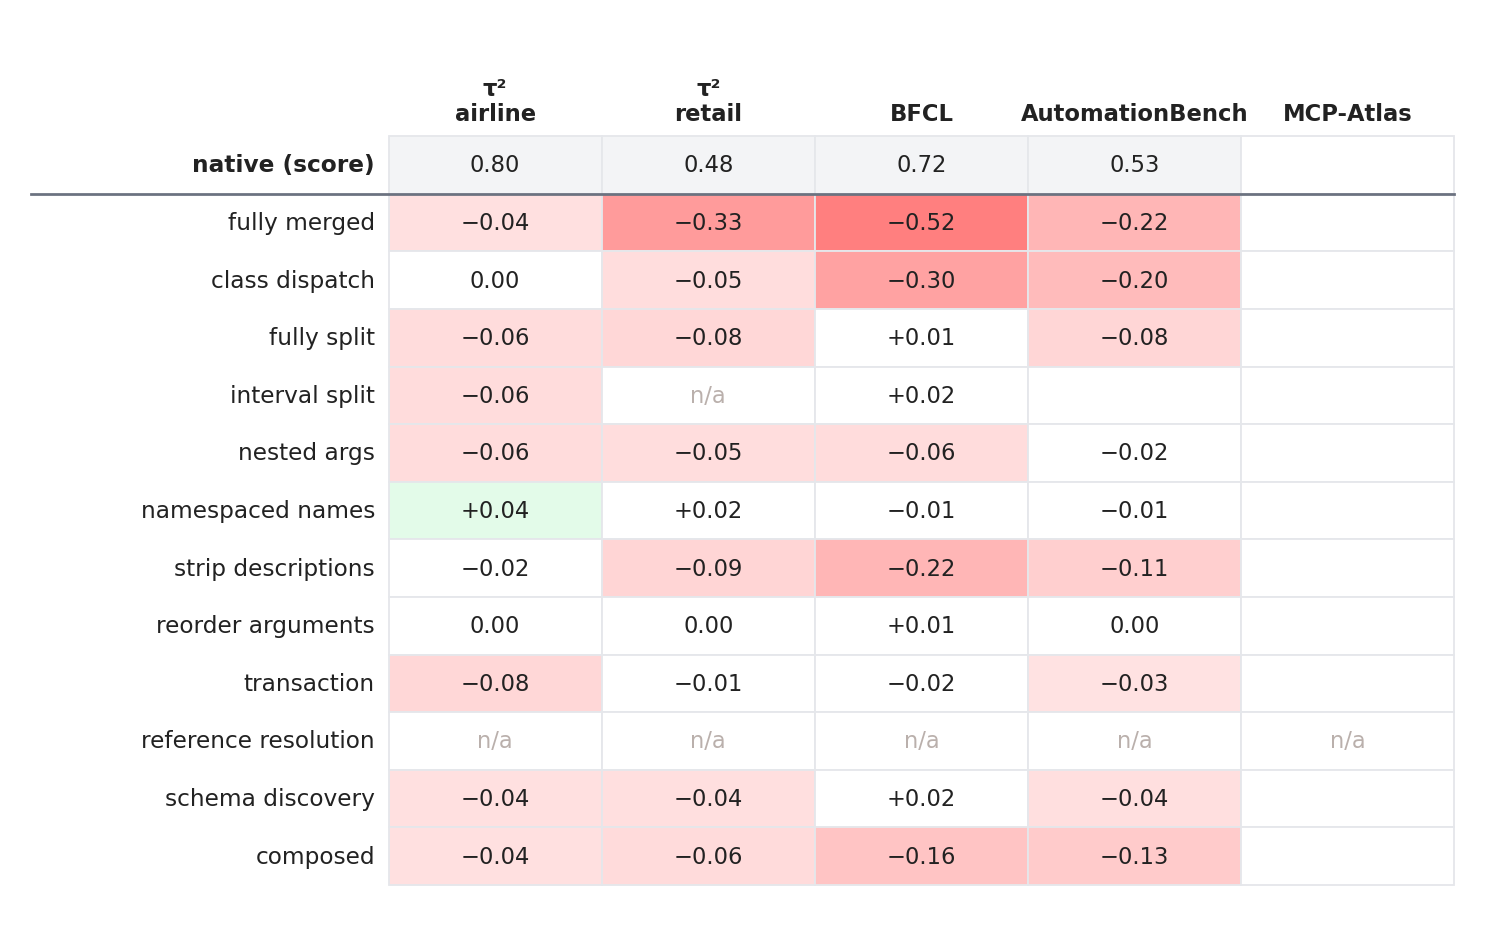
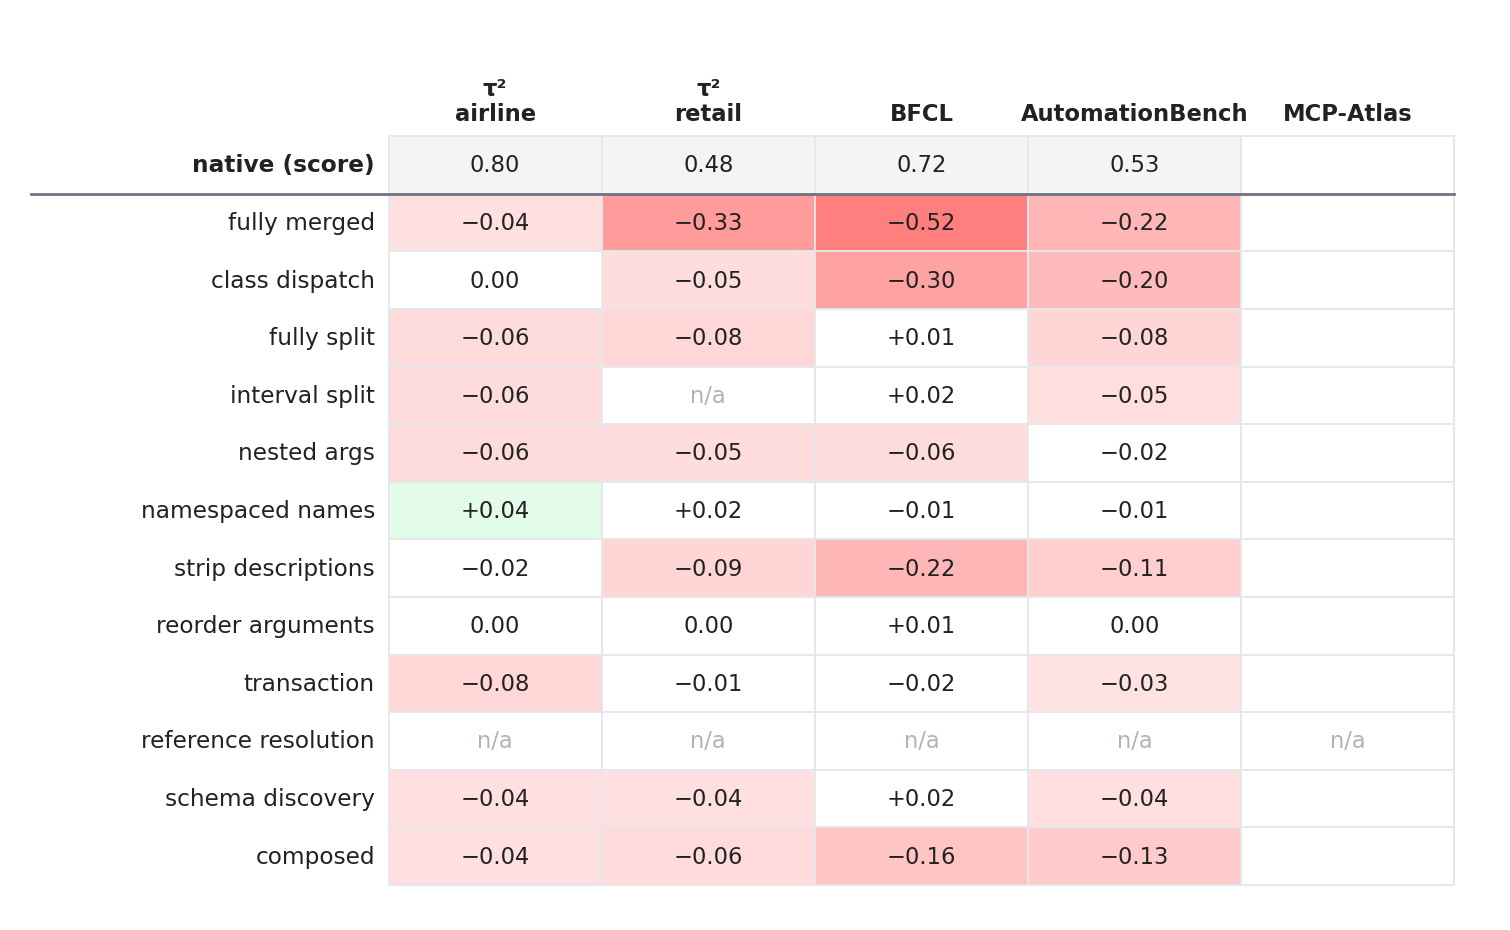
results: refresh real-benchmark table

Changed region(s): [[0.6536, 0.3742, 0.8404, 0.4677]]

diff --git a/results/raw_tables.md b/results/raw_tables.md
@@ -53,7 +53,7 @@ The numbers behind the figures in [README.md](README.md). In each table the firs
 | fully merged | -0.040 | -0.333 | -0.515 | -0.219 |   |
 | class dispatch | +0.000 | -0.053 | -0.305 | -0.199 |   |
 | fully split | -0.060 | -0.079 | +0.005 | -0.082 |   |
-| interval split | -0.060 | n/a | +0.015 |   |   |
+| interval split | -0.060 | n/a | +0.015 | -0.049 |   |
 | nested args | -0.060 | -0.053 | -0.060 | -0.020 |   |
 | namespaced names | +0.040 | +0.018 | -0.010 | -0.011 |   |
 | strip descriptions | -0.020 | -0.088 | -0.220 | -0.113 |   |
